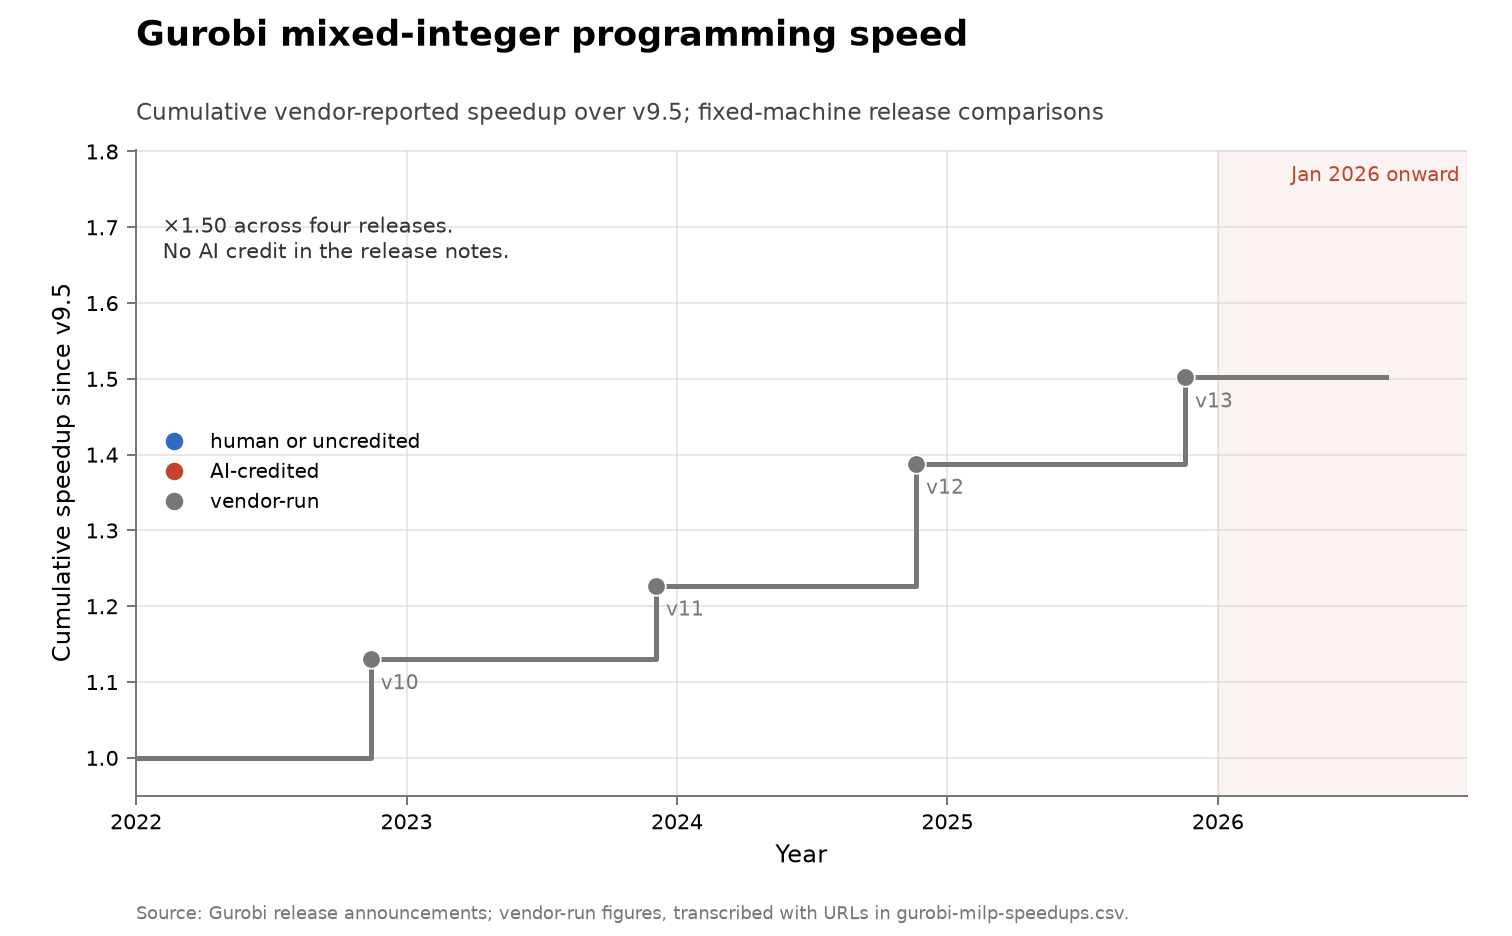
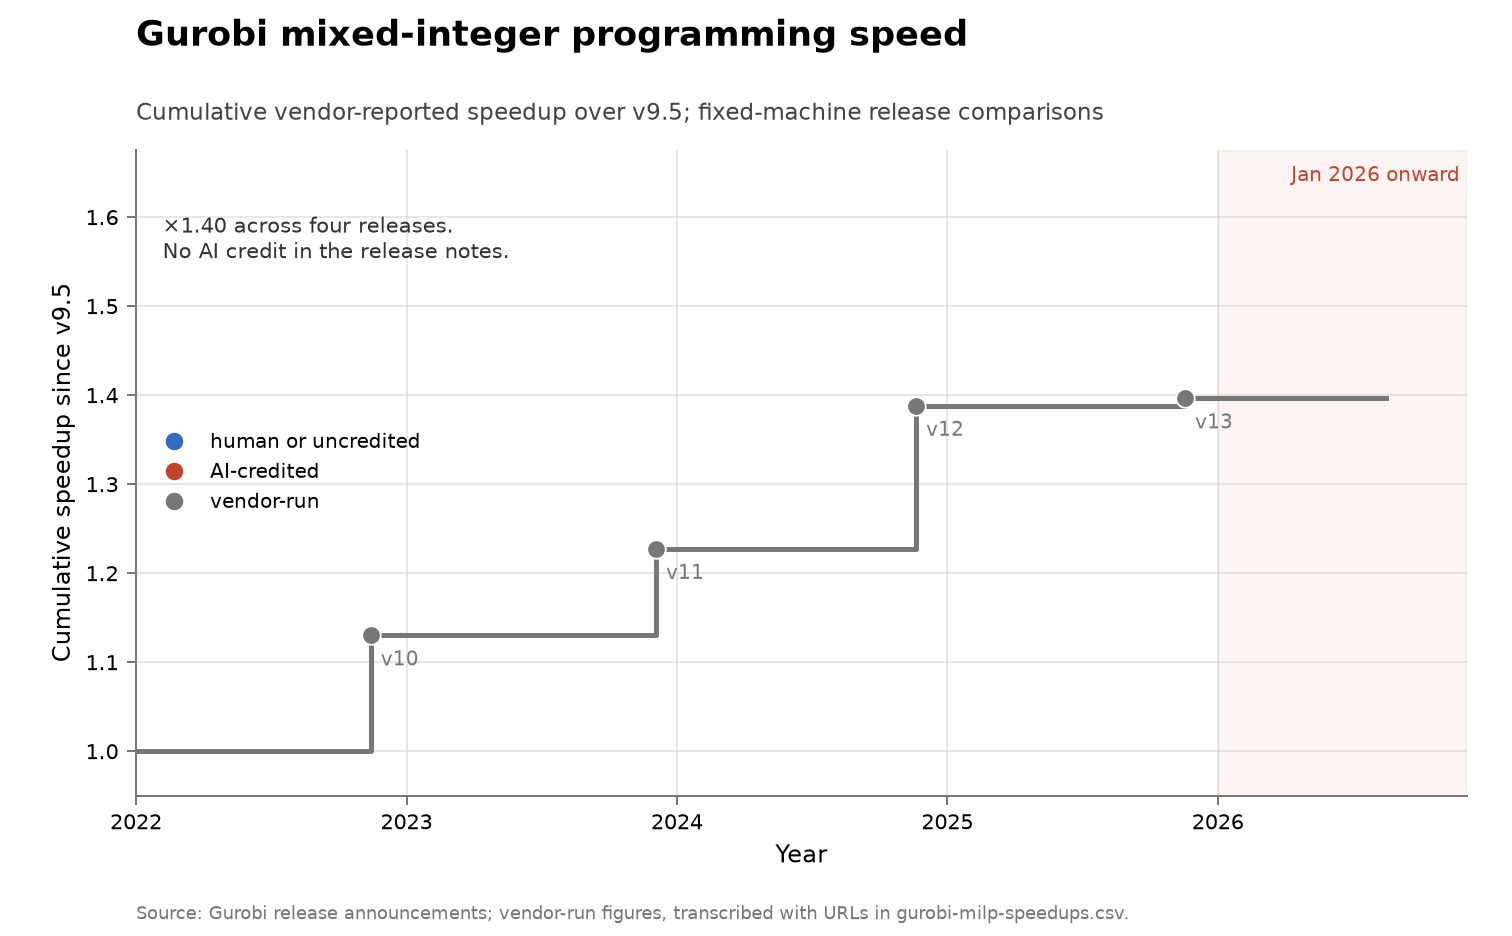
Correct Gurobi v13 bracket and matrix provenance

diff --git a/problems/matrix-omega/figure.py b/problems/matrix-omega/figure.py
@@ -38,11 +38,16 @@ def main() -> None:
     ax.scatter(years, values, color=HUMAN, s=45, edgecolor="white", linewidth=0.6, zorder=4)
     ax.axhline(2, color=VENDOR, linestyle=":", linewidth=1)
     ax.text(1970, 2.025, "conjectured limit = 2", fontsize=8, color="#555555")
-    for target in ("Strassen", "Coppersmith–Winograd", "Alman et al."):
+    labels = {
+        "Strassen": "Strassen",
+        "Coppersmith–Winograd": "Coppersmith–Winograd",
+        "Alman–Duan–Williams–Xu–Xu–Zhou": "Alman et al.",
+    }
+    for target, label in labels.items():
         # Use the latest record when a discoverer appears more than once.
         row = next(row for row in reversed(rows) if row["discoverer"] == target)
         ax.annotate(
-            target,
+            label,
             (int(row["year"]), float(row["omega"])),
             xytext=(5, 7),
             textcoords="offset points",

diff --git a/problems/algorithms-gurobi/README.md b/problems/algorithms-gurobi/README.md
@@ -15,12 +15,12 @@ Mixed-integer programming is the workhorse of applied optimization, and solver
 speed on it is one of the oldest measured algorithmic-progress series there is.
 The measurement design is the good part: every released version is recompiled and
 rerun on one bank of identical machines, so the ratio between versions is
-machine-independent by construction rather than by regression. Gurobi states the
-setup as a test set of 9,423 models, of which 960 are discarded for inconsistent
-answers and 2,641 because no version solves them, with the speedup measured on
-the bracket of models taking over 100 seconds, leaving 3,517; a 10,000-second time
-limit; and an Intel Xeon E3-1240 v5 at 3.50 GHz with 4 cores, 8 hyper-threads and
-32 GB of RAM.
+machine-independent by construction rather than by regression. Gurobi reports
+both an overall MILP figure for models taking over one second and a larger
+hard-model figure for those taking over 100 seconds. This chart consistently
+uses the overall figure. The vendor describes a 9,423-model test set, a
+10,000-second time limit, and an Intel Xeon E3-1240 v5 at 3.50 GHz with 4 cores,
+8 hyper-threads and 32 GB of RAM.
 
 That design is Robert Bixby's, from the canonical measurement of solver progress
 [@bixby2012history], now run by the company he founded. A "discovery" here is a
@@ -31,16 +31,17 @@ rather than a paper or a record.
 
 Four annual releases and four single-digit-to-low-double-digit gains: 13% for
 version 10 on 2022-11-14, 8.6% for version 11 on 2023-12-04, 13.1% for version 12
-on 2024-11-19, and 8.2% for version 13 on 2025-11-18. Multiplied together that is
-a cumulative factor of 1.50 since version 9.5, and the per-release figures show
-no trend within the window: the two largest gains are the first and the third.
+on 2024-11-19, and 0.6% for version 13 on 2025-11-18. Multiplied together that is
+a cumulative factor of 1.40 since version 9.5. The latest gain is the smallest
+in the window; the 8.2% number also reported for version 13 applies only to the
+hard-model bracket and is not mixed into this overall series.
 
 The comparison that matters is with the same problem's earlier history. A 2013
 survey recorded MIP algorithms as having "roughly doubled in speed each year"
 [@grace2013algorithmic], and Bixby's own fixed-hardware test over CPLEX versions
 released between 1991 and 2007 multiplied out to a machine-independent factor of
-over 29,000 [@bixby2012history]. Against either, 8 to 13% a year is an order of
-magnitude slower or worse, on the vendor's own numbers. The vendor's cumulative
+over 29,000 [@bixby2012history]. Against either, 0.6 to 13.1% a year is an order
+of magnitude slower or worse, on the vendor's own numbers. The vendor's cumulative
 claim tells the same story from the other end: its performance page moved from
 "a more than 75x speedup on MILP since version 1.1" in the version-10 era to
 "A 92x speed-up over version 1.1" by the version-13 era, which is most of a
@@ -88,9 +89,10 @@ new release is read and typed in the same way.
   `release_speedup` values are read off release pages, some through archive
   captures, and a cumulative product of four vendor point estimates carries no
   error bar.
-- **The headline percentages are aggregates.** Each is an overall geometric-mean
-  figure and each is larger on the over-100-second bracket, so the same release
-  can be quoted at two different sizes.
+- **The headline percentages are aggregates.** Each plotted value is the overall
+  geometric-mean figure for models taking over one second. The vendor also
+  reports a larger over-100-second bracket, so the same release can be quoted at
+  two different sizes; version 13 is 0.6% overall and 8.2% on hard models.
 - **One date upstream is unverified.** Version 1.0's commonly cited 2009 release
   is not confirmed on any primary Gurobi page; the vendor's own support table
   starts at version 7.0 in 2016. Nothing in this chart depends on it, but the

diff --git a/README.md b/README.md
@@ -177,7 +177,7 @@ not.
 
 | Chart | Series |
 |---|---|
-| <a href="problems/integer-factorization/"><img src="problems/integer-factorization/discovery-integer-factorization.png" width="400" alt="Integer factorization records"></a> | <b><a href="problems/integer-factorization/">Integer factorization records</a></b><br><b>Metric:</b> cryptanalysis; decimal digits in the<br>largest hard semiprime factored, as a running<br>maximum<br><b>Coverage:</b> 1991-04 to 2020-02, confirmed<br>unmoved as of 2026-07-29<br><b>Acceleration?</b> ➡ no acceleration — no record<br>since February 2020, and the fourfold slowdown<br>before that predates AI entirely |
+| <a href="problems/integer-factorization/"><img src="problems/integer-factorization/discovery-integer-factorization.png" width="400" alt="Integer factorization records"></a> | <b><a href="problems/integer-factorization/">Integer factorization records</a></b><br><b>Metric:</b> cryptanalysis; decimal digits in the<br>largest hard semiprime factored, as a running<br>maximum<br><b>Coverage:</b> 1991-04 to 2020-02, confirmed<br>unmoved as of 2026-08-10<br><b>Acceleration?</b> ➡ no acceleration — no record<br>since February 2020, and the fourfold slowdown<br>before that predates AI entirely |
 | <a href="problems/output-arxiv/"><img src="problems/output-arxiv/output-arxiv-submissions.png" width="400" alt="arXiv submissions"></a> | <b><a href="problems/output-arxiv/">arXiv submissions</a></b><br><b>Metric:</b> research output; preprints submitted<br>to arXiv per month<br><b>Coverage:</b> 1991-07 to 2026-08, monthly, the<br>last month partial<br><b>Acceleration?</b> 📈 accelerating — on volume,<br>which is not discovery |
 | <a href="problems/output-crossref/"><img src="problems/output-crossref/output-crossref-dois.png" width="400" alt="DOI records deposited with Crossref"></a> | <b><a href="problems/output-crossref/">DOI records deposited with Crossref</a></b><br><b>Metric:</b> formal publishing volume; DOI records<br>deposited with Crossref per year, by created<br>date<br><b>Coverage:</b> 2010 to 2026, annual, the last year<br>partial<br><b>Acceleration?</b> ➡ no acceleration |
 | <a href="problems/output-github-pushes/"><img src="problems/output-github-pushes/output-github-pushes.png" width="400" alt="Git pushes to GitHub"></a> | <b><a href="problems/output-github-pushes/">Git pushes to GitHub</a></b><br><b>Metric:</b> code output; git pushes to GitHub per<br>quarter, summed over economies<br><b>Coverage:</b> 2020-Q1 to 2026-Q1, quarterly<br><b>Acceleration?</b> 📈 accelerating — on volume,<br>which is not discovery |

diff --git a/problems/matrix-omega/README.md b/problems/matrix-omega/README.md
@@ -47,8 +47,9 @@ Coppersmith and Winograd in 1990 — a drop of 0.43 in twenty-one years — and 
 almost nothing. The seven steps the CSV records from 2010 onward are 2.3737
 (Stothers, 2010), 2.3729 (Williams, 2012), 2.3728639 (Le Gall, 2014), 2.3728596
 (Alman and Williams, 2020), 2.371866 (Duan, Wu and Zhou, 2022), 2.371552
-(Williams and co-authors, 2024) and 2.371339 (Alman and co-authors, 2024). That is
-a total movement of 0.0024 in fourteen years, two orders of magnitude smaller
+(Williams and co-authors, 2024) and 2.371339 (Alman, Duan, Williams, Yinzhan Xu,
+Zixuan Xu and Zhou, first posted in 2024 and published at SODA 2025). That is a
+total movement of 0.0024 in fourteen years, two orders of magnitude smaller
 than the first two decades bought, and the record has not moved since 2024.
 
 Every step in the series is a human proof. There is no AI-attributed entry, and
@@ -83,9 +84,6 @@ published record list, one `source_url` per row, so the CSV is edited directly.
 - **Bounds are not implementations.** None of the post-Strassen algorithms in this
   series is used in practice; the constants and crossover sizes make them
   galactic. A falling curve here is not a falling cost of multiplying matrices.
-- **Two 2024 rows cannot be ordered.** The CSV carries year precision only, so
-  the last two steps are drawn in file order and their sequence within the year is
-  not established here.
 - **Sixth-decimal-place movements are not comparable with percentage speedups**
   elsewhere in this collection. Nothing converts a change in an exponent into a
   quantity that can be set beside an 8% solver release or a 23% speedrun step.

diff --git a/problems/integer-factorization/README.md b/problems/integer-factorization/README.md
@@ -2,7 +2,7 @@
 
 **Domain:** outside the three domains
 **Metric:** cryptanalysis; decimal digits in the largest hard semiprime factored, as a running maximum
-**Coverage:** 1991-04 to 2020-02, confirmed unmoved as of 2026-07-29
+**Coverage:** 1991-04 to 2020-02, confirmed unmoved as of 2026-08-10
 **Data:** [`factoring-records.csv`](factoring-records.csv) (all 23 published RSA factorizations, plus the 795-bit discrete-logarithm record and the first SHA-1 collision for context)
 **Upstream:** <https://en.wikipedia.org/wiki/RSA_numbers>, with the last two records from <https://caramba.loria.fr/rsa250.txt> and <https://caramba.loria.fr/dlp240-rsa240.txt>
 **Verdict:** no acceleration — no record since February 2020, and the fourfold slowdown before that predates AI entirely
@@ -30,7 +30,7 @@ Thirteen records between April 1991 and February 2020, and nothing since.
 The rate falls fourfold inside the series, well before AI: about 7.1 digits a
 year from RSA-100 in 1991 to RSA-768 in December 2009, then about 1.8 a year to
 RSA-250 in February 2020. Both figures are computed in the figure code from the
-running maximum. RSA-250 has stood for six years and four months, across exactly
+running maximum. RSA-250 has stood for about six and a half years, across exactly
 the period in which AI systems were setting records on speedruns, kernels, a SAT
 competition, and a dozen mathematical bounds. RSA-260, RSA-270, RSA-896 and
 RSA-1024 remain unfactored.
